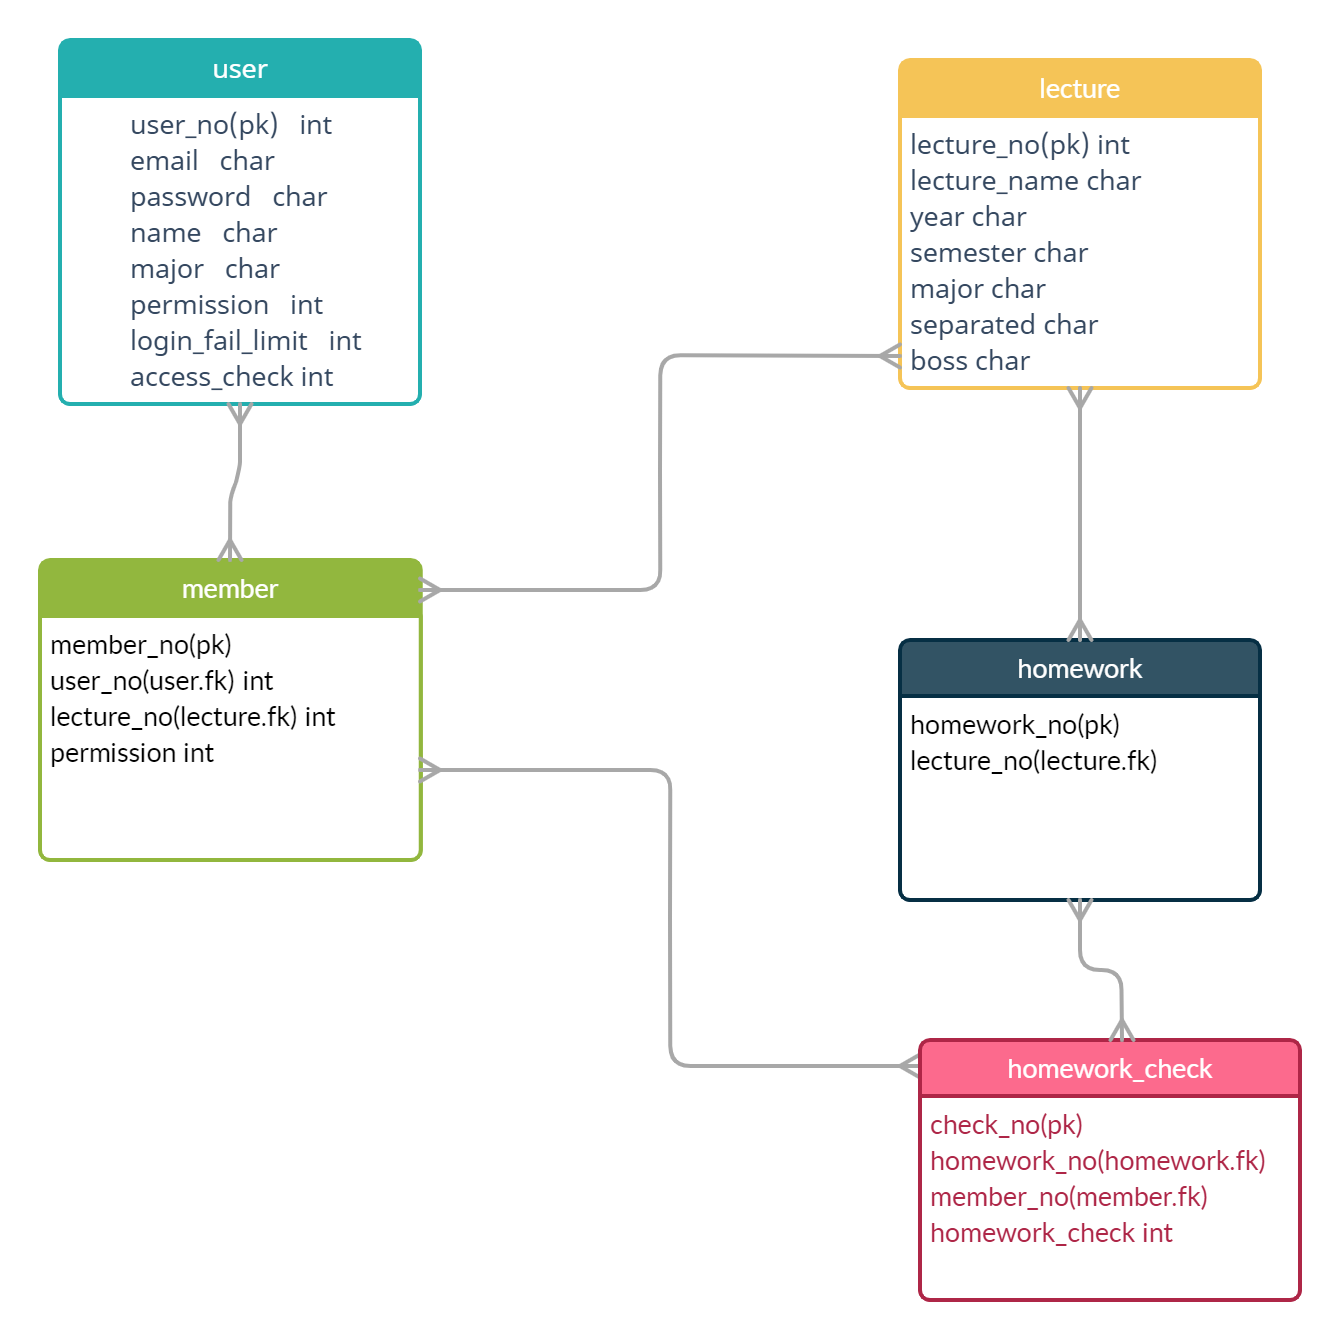
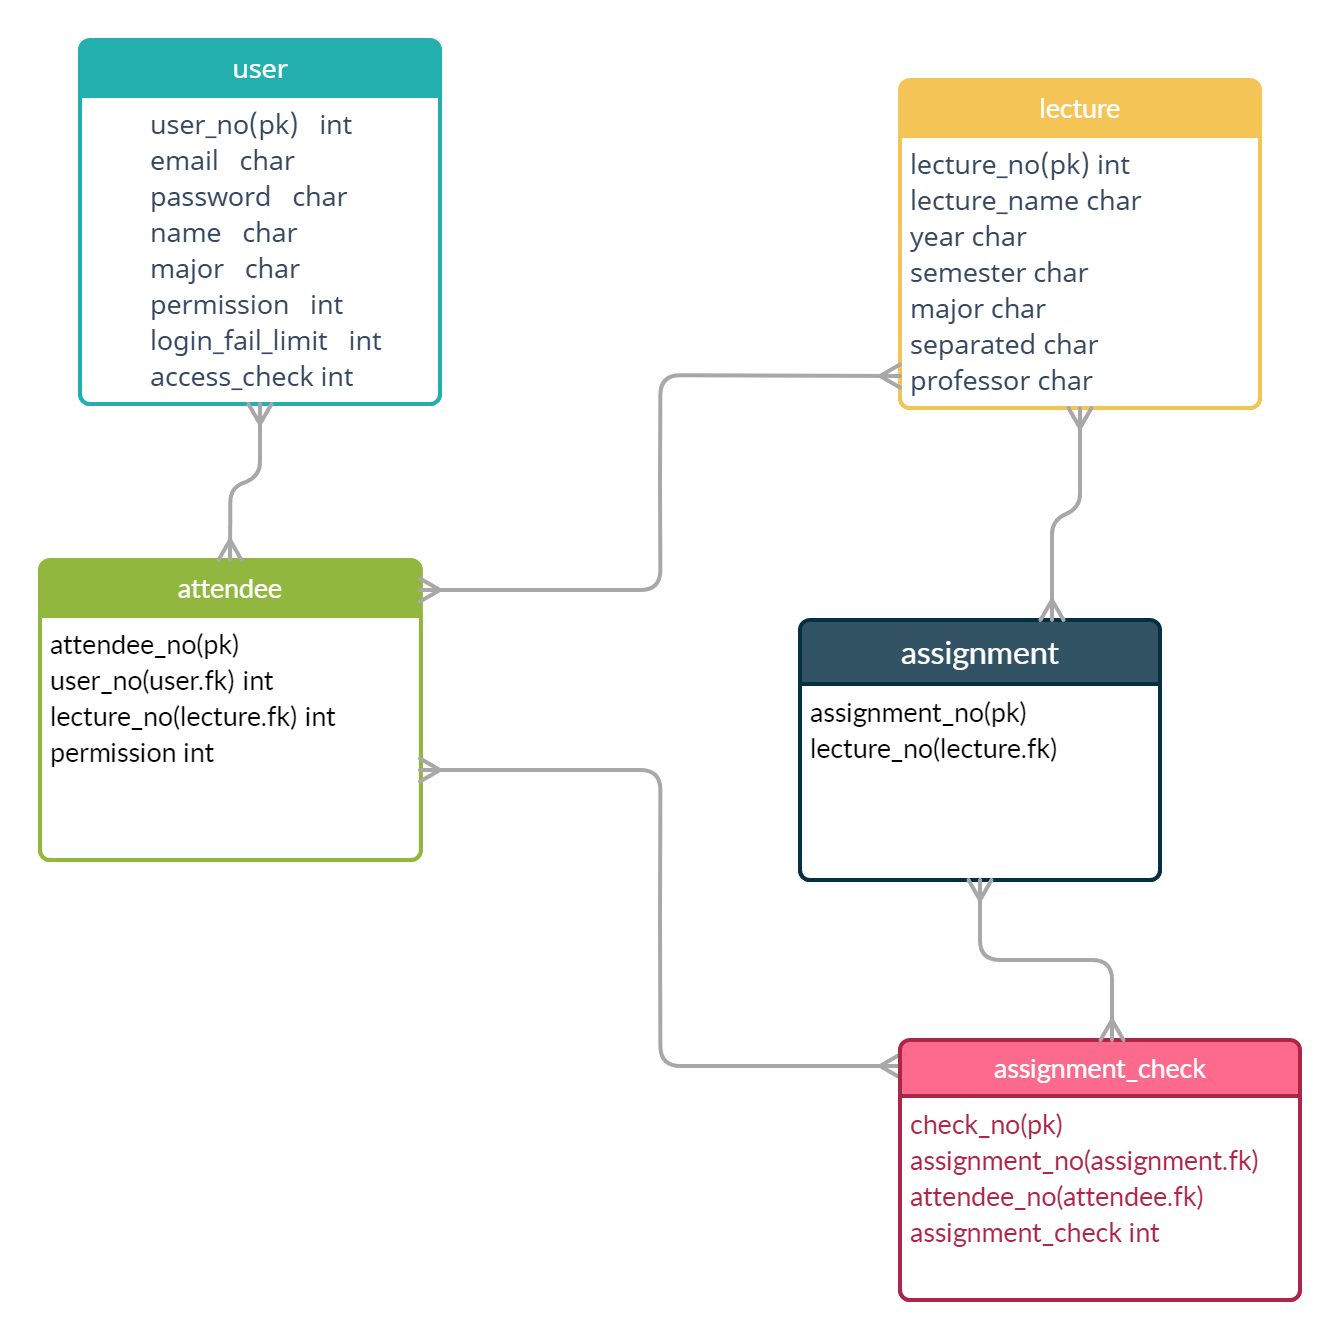
세션유지시간,db명변경

diff --git a/application.py b/application.py
@@ -32,7 +32,7 @@ sentry_sdk.init(
 """
 
 app.config['SECRET_KEY'] = 'Shadow-Hunter-nerf-plz'#추후 랜덤문자열로 바꿀것 ㅎㅎ;
-app.config["JWT_ACCESS_TOKEN_EXPIRES"] = timedelta(hours=1)
+app.config["JWT_ACCESS_TOKEN_EXPIRES"] = timedelta(hours=4)
 app.config["JWT_REFRESH_TOKEN_EXPIRES"] = timedelta(days=1)
 app.config['SQLALCHEMY_DATABASE_URI'] = f"mysql+pymysql://{env['SQL_USER']}:{env['SQL_PASSWORD']}@{env['SQL_HOST']}:{env['SQL_PORT']}/{env['SQL_DATABASE']}"
 app.config['SQLALCHEMY_TRACK_MODIFICATIONS'] = False

diff --git a/db.md b/db.md
@@ -4,10 +4,10 @@
 ```create table user(user_no int primary key auto_increment, email char(50) not null unique,password varchar(250) not null, name char(50) not null ,major char(50) not null ,permission int default 1, login_fail_limit int default 0, access_check int default 0);```   
 
 
-```create table lecture(lecture_no int primary key auto_increment, lecture_name varchar(50) not null,year char(7) not null,semester char(30) not null,major char(50) not null, separated char(20) not null,boss varchar(50) not null);```   
+```create table lecture(lecture_no int primary key auto_increment, lecture_name varchar(50) not null,year char(7) not null,semester char(30) not null,major char(50) not null, separated char(20) not null,professor varchar(50) not null);```   
 
-```create table member(member_no int primary key auto_increment, user_no int,lecture_no int,permission int default 1,foreign key(user_no) references user(user_no) on delete cascade,foreign key(lecture_no) references lecture(lecture_no) on delete cascade);```   
+```create table attendee(attendee_no int primary key auto_increment, user_no int,lecture_no int,permission int default 1,foreign key(user_no) references user(user_no) on delete cascade,foreign key(lecture_no) references lecture(lecture_no) on delete cascade);```   
 
-```create table homework(homework_no int primary key auto_increment, lecture_no int,foreign key(lecture_no) references lecture(lecture_no) on delete cascade);```   
+```create table assignment(assignment_no int primary key auto_increment, lecture_no int,foreign key(lecture_no) references lecture(lecture_no) on delete cascade);```   
 
-```create table homework_check(check_no int primary key auto_increment, homework_no int,member_no int,homework_check int default 0,foreign key(homework_no) references homework(homework_no) on delete cascade,foreign key(member_no) references member(member_no) on delete cascade);```   
+```create table assignment_check(check_no int primary key auto_increment, assignment_no int,attendee_no int,assignment_check int default 0,foreign key(assignment_no) references assignment(assignment_no) on delete cascade,foreign key(attendee_no) references attendee(attendee_no) on delete cascade);```   
